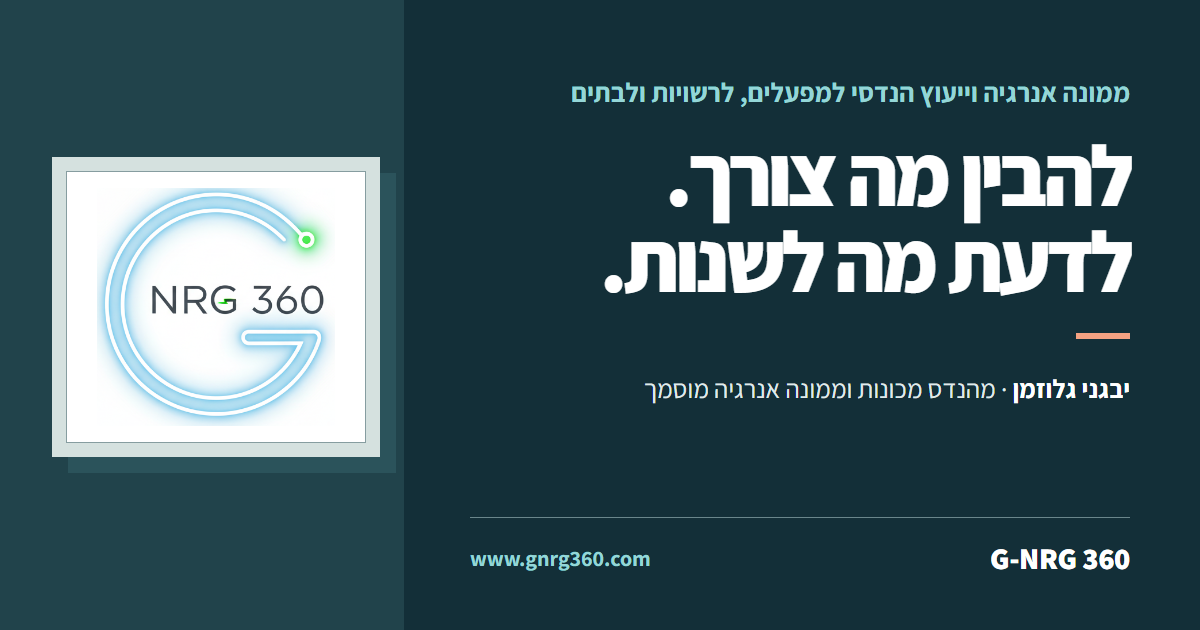
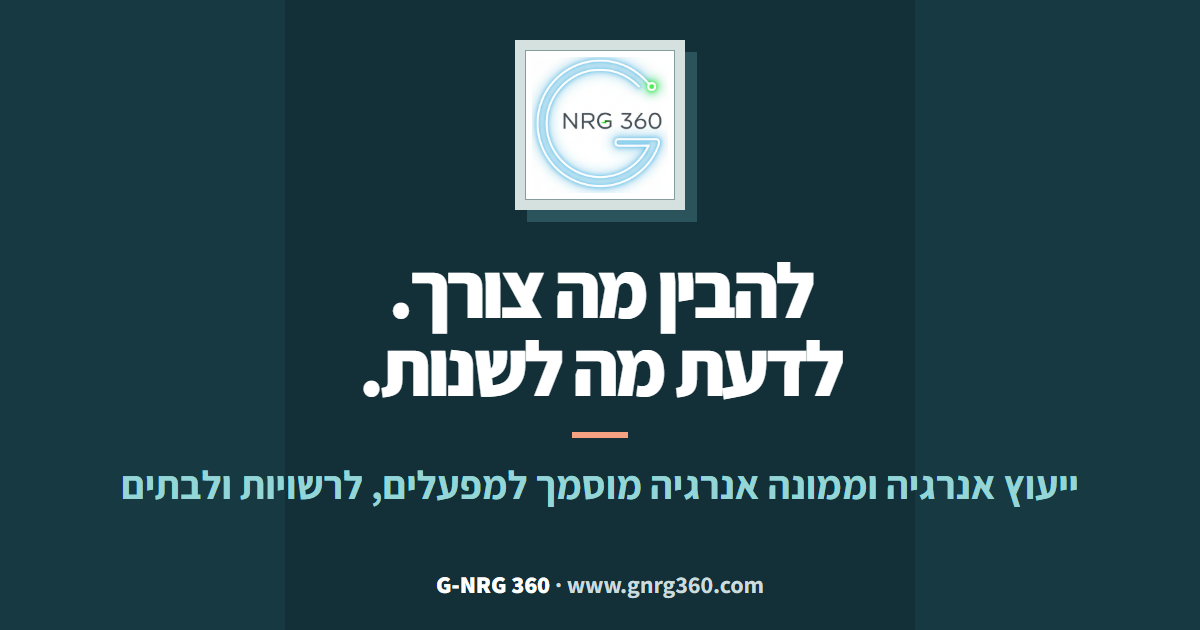
Share images: separate HE and EN versions, square-crop safe, twitter:image
assets/og-image.png (HE) and new assets/og-image-en.png (EN), 1200x630,
rendered in headless Edge. Logo and slogan sit inside the central 630x630
square so WhatsApp/Telegram square thumbnails keep them whole; keyword line
is 40px; byline dropped. en.html points og:image at the English image;
both pages add <meta name="twitter:image">.

diff --git a/en.html b/en.html
@@ -12,7 +12,7 @@
   <link rel="alternate" hreflang="x-default" href="https://www.gnrg360.com/">
   <meta property="og:title" content="Energy Consultant &amp; Energy Manager in Israel | G-NRG 360">
   <meta property="og:description" content="Evgeni Glozman, certified energy manager: energy audits, external energy manager, natural gas (DVGW), project management. Free first check for suitable plants.">
-  <meta property="og:image" content="https://www.gnrg360.com/assets/og-image.png">
+  <meta property="og:image" content="https://www.gnrg360.com/assets/og-image-en.png">
   <meta property="og:image:width" content="1200">
   <meta property="og:image:height" content="630">
   <meta property="og:image:alt" content="G-NRG 360 – energy consultant and certified energy manager in Israel">
@@ -22,6 +22,7 @@
   <meta property="og:locale" content="en_US">
   <meta property="og:locale:alternate" content="he_IL">
   <meta name="twitter:card" content="summary_large_image">
+  <meta name="twitter:image" content="https://www.gnrg360.com/assets/og-image-en.png">
   <link rel="icon" href="/favicon.ico" sizes="any">
   <link rel="icon" type="image/png" sizes="96x96" href="/assets/icons/favicon-96.png">
   <link rel="apple-touch-icon" href="/assets/icons/apple-touch-icon.png">

diff --git a/index.html b/index.html
@@ -22,6 +22,7 @@
   <meta property="og:locale" content="he_IL">
   <meta property="og:locale:alternate" content="en_US">
   <meta name="twitter:card" content="summary_large_image">
+  <meta name="twitter:image" content="https://www.gnrg360.com/assets/og-image.png">
   <link rel="icon" href="/favicon.ico" sizes="any">
   <link rel="icon" type="image/png" sizes="96x96" href="/assets/icons/favicon-96.png">
   <link rel="apple-touch-icon" href="/assets/icons/apple-touch-icon.png">

diff --git a/README.md b/README.md
@@ -17,7 +17,8 @@ Source of [www.gnrg360.com](https://www.gnrg360.com): a hand-written static site
 └── assets/
     ├── site.css, site.js   Shared styles and script
     ├── logo.png            Full logo
-    ├── og-image.png        Social-sharing image, 1200×630 (og:image)
+    ├── og-image.png        Social-sharing image, Hebrew, 1200×630 (og:image)
+    ├── og-image-en.png     Social-sharing image, English, 1200×630
     ├── logo-header.png     Small header logo
     ├── icons/              Favicon / app icons
     ├── evgeni.jpg          Portrait
